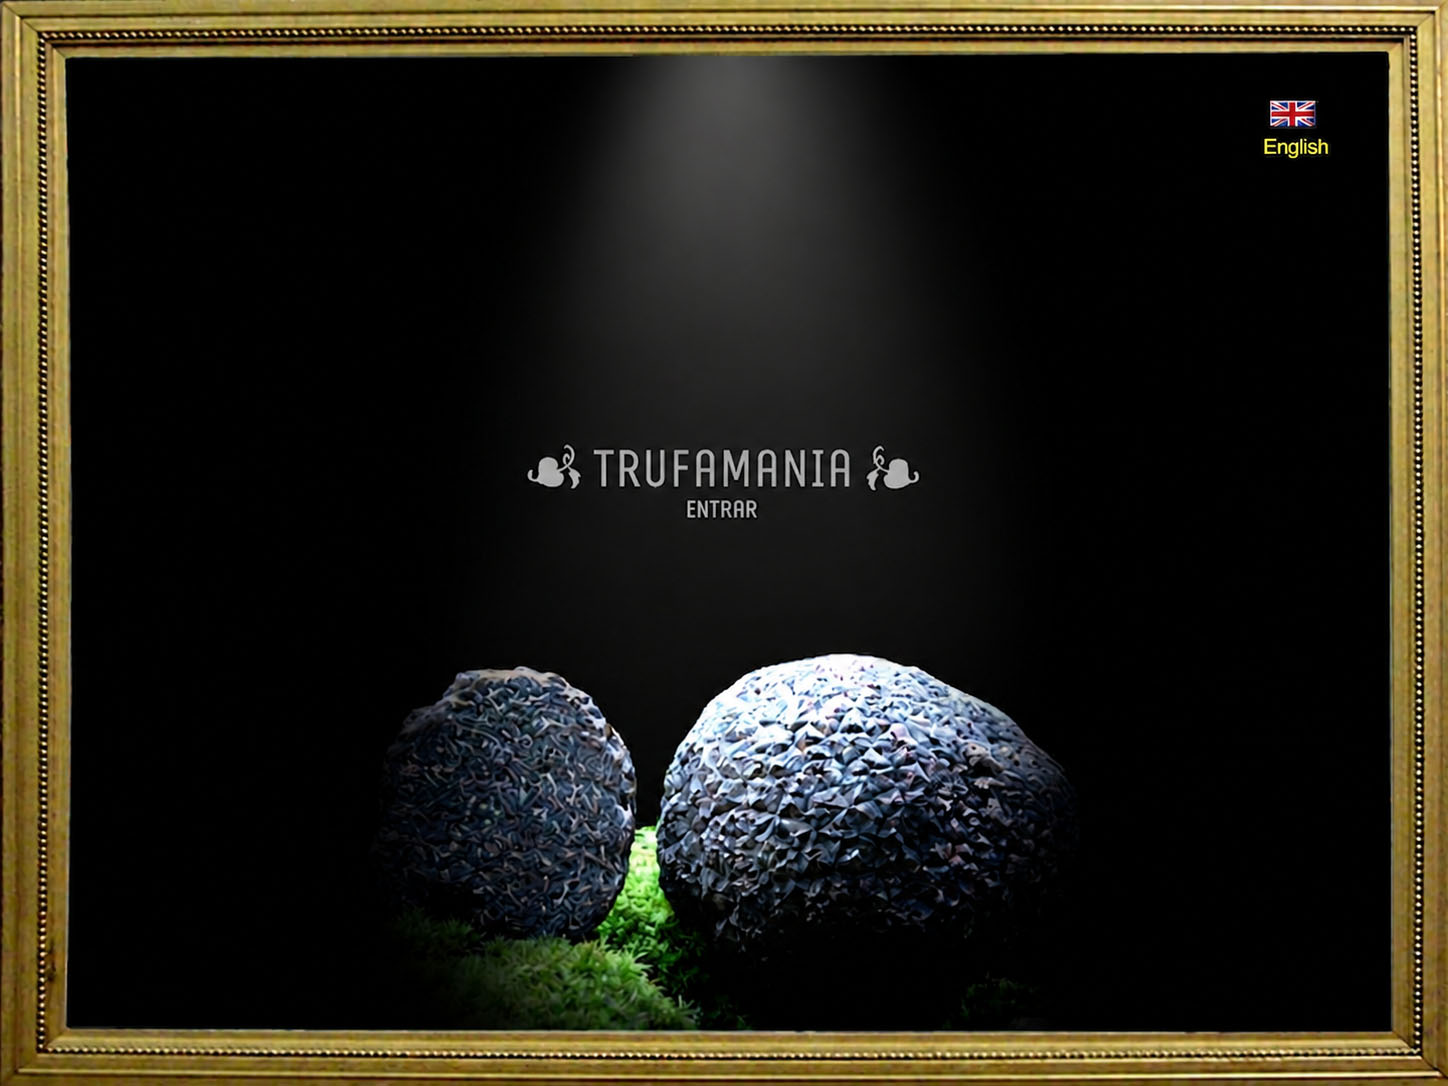
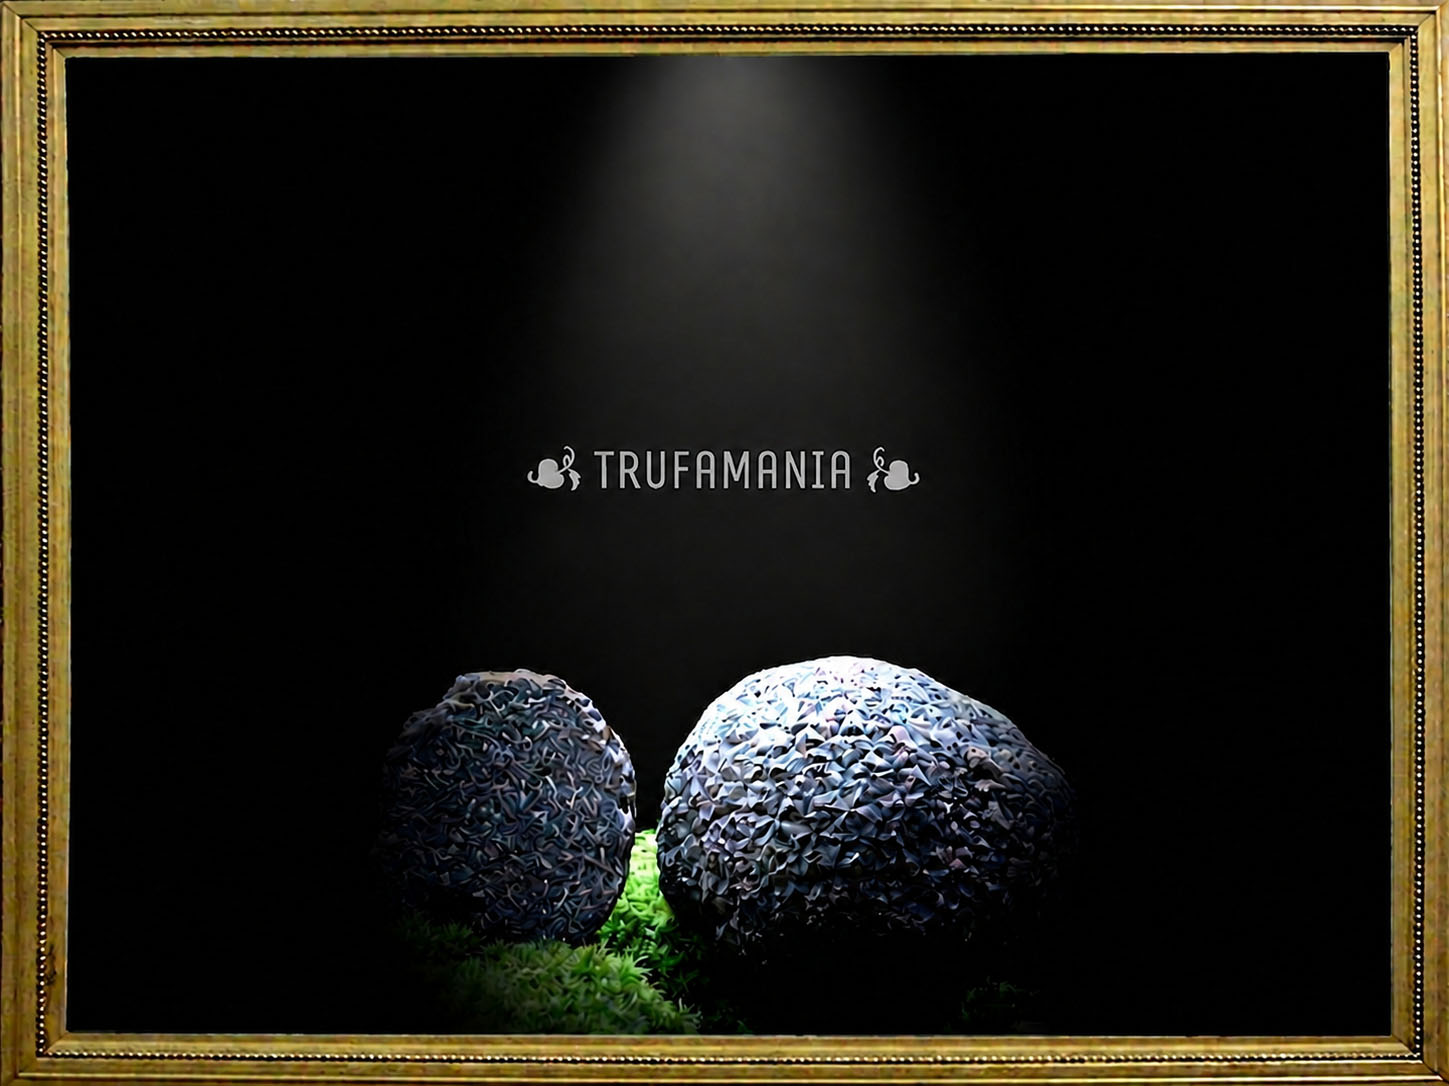
arreglar portada

diff --git a/index.html b/index.html
@@ -78,26 +78,7 @@
       border: 1px solid #660000;
     }
 
-    .link-imagen-es {
-      display: block;
-      text-decoration: none;
-    }
-
-    .link-imagen-en {
-      position: absolute;
-      top: 5%;
-      right: 14%;
-      width: 18%;
-      height: 20%;
-      display: block;
-      text-indent: -9999px;
-      overflow: hidden;
-    }
-
-    .link-imagen-en:focus {
-      outline: 2px dashed #ffffff;
-      outline-offset: 2px;
-    }
+    
 
     .contenido-portada {
       max-width: 860px;
@@ -313,10 +294,7 @@
       </header>
 
       <div class="imagen-portada">
-        <a href="inicio-trufas.htm" class="link-imagen-es" title="Entrar en Trufamania">
-          <img src="images/trufamania.jpg" alt="Trufamania, pasión por la trufa">
-        </a>
-        <a href="truffles-home.htm" class="link-imagen-en" title="English version">English version</a>
+        <img src="images/trufamania.jpg" alt="Trufamania, pasión por la trufa">
       </div>
 
       <section class="contenido-portada">